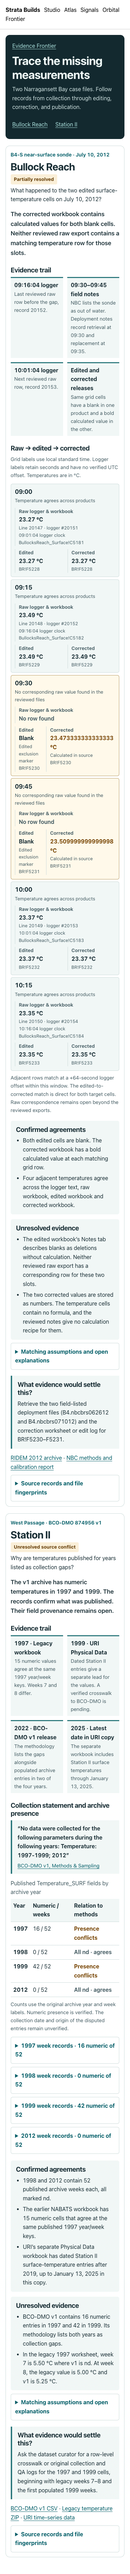
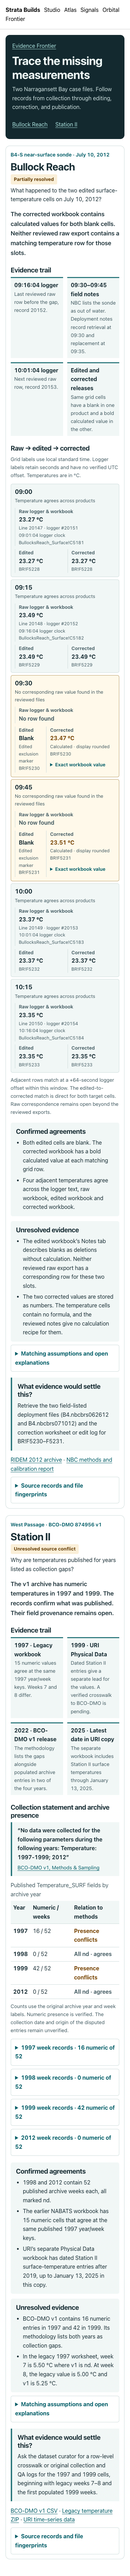
STRATA-007: Round displayed calculated temperatures

diff --git a/src/features/evidence/reconciliation/case-files.tsx b/src/features/evidence/reconciliation/case-files.tsx
@@ -7,12 +7,24 @@ import styles from './reconciliation.module.css';
 function RecordValue({ record, rawNumber }: { record: EvidenceRecord | null; rawNumber?: number | null }) {
   if (!record) return <span className={styles.missing}>No row found</span>;
 
+  if (record.status === 'derived') {
+    return (
+      <>
+        <strong className={styles.derived}>{Number(record.originalValue).toFixed(2)} {record.unit}</strong>
+        <small>Calculated · display rounded</small>
+        <small>{record.locator}</small>
+        <details className={styles.exactValue}>
+          <summary aria-label={`Exact workbook value at ${record.locator}`}>Exact workbook value</summary>
+          <small><code>{record.originalValue}</code> {record.unit}</small>
+          {record.source.sha256 && <small>SHA-256 <code>{record.source.sha256}</code></small>}
+        </details>
+      </>
+    );
+  }
+
   return (
     <>
-      <strong className={record.status === 'derived' ? styles.derived : undefined}>
-        {record.originalValue === null ? 'Blank' : `${record.originalValue} ${record.unit}`}
-      </strong>
-      {record.status === 'derived' && <small>Calculated in source</small>}
+      <strong>{record.originalValue === null ? 'Blank' : `${record.originalValue} ${record.unit}`}</strong>
       {record.status === 'excluded' && <small>Edited exclusion marker</small>}
       <small>{record.locator}{rawNumber !== undefined && rawNumber !== null && ` · logger #${rawNumber}`}</small>
       {rawNumber !== undefined && <small>{record.time.split(' ')[1]} logger clock</small>}

diff --git a/src/features/evidence/reconciliation/reconciliation.module.css b/src/features/evidence/reconciliation/reconciliation.module.css
@@ -210,6 +210,16 @@
   font-size: 0.81rem;
 }
 
+.exactValue summary {
+  display: list-item;
+  min-height: 2.75rem;
+  align-content: center;
+  color: var(--accent);
+  font-size: 0.85rem;
+  font-weight: 650;
+  cursor: pointer;
+}
+
 .derived {
   color: var(--amber);
   font-weight: 700;

diff --git a/docs/STRATA-007.md b/docs/STRATA-007.md
@@ -17,8 +17,8 @@ Bullock Reach's documented field event and the corrected product establish diffe
 
 ## Implementation and verification
 
-The feature contains typed evidence records, source receipts, match logic, claims and outcomes. Its static route uses native disclosures, semantic source links, and individually traceable archive weeks. All science comparisons use pinned local captures. [Method, data rights and extraction commands](RECONCILIATION_METHOD.md)
+The feature contains typed evidence records, source receipts, match logic, claims and outcomes. Its static route uses native disclosures, semantic source links, and individually traceable archive weeks. All science comparisons use pinned local captures. The two calculated Bullock Reach values display to two decimals, with each exact cell value and the workbook fingerprint available in a native disclosure. [Method, data rights and extraction commands](RECONCILIATION_METHOD.md)
 
 The verification covers hashes, source versions, raw versus edited/corrected cells, time alignment, duplicate and missing timestamps, inaccessible records, unresolved conflicts, year/week counts, sentinels and rendered source locators. The source and derivation fixtures keep the full quality suite offline. The curator inquiry is drafted in the Station II case file for human review.
 
-Local verification passed on Node 24.22.3 and npm 11.19.1. Clean install, lint, typecheck, 39 unit tests, production build and 17 route smoke tests passed. Chromium at 375, 768 and 1440 px verified the Frontier link, case navigation, all eight keyboard disclosures, focus outlines and no page overflow with disclosures open or closed. [Desktop screenshot](review/strata-007-desktop.png) · [Mobile screenshot](review/strata-007-mobile.png)
+Local verification passed on Node 24.22.3 and npm 11.19.1. Clean install, lint, typecheck, 39 unit tests, production build and 17 route smoke tests passed. Chromium at 375 and 1440 px verified the Frontier link, case navigation, all ten keyboard disclosures, focus outlines and no page overflow with disclosures open or closed. [Desktop screenshot](review/strata-007-desktop.png) · [Mobile screenshot](review/strata-007-mobile.png)
